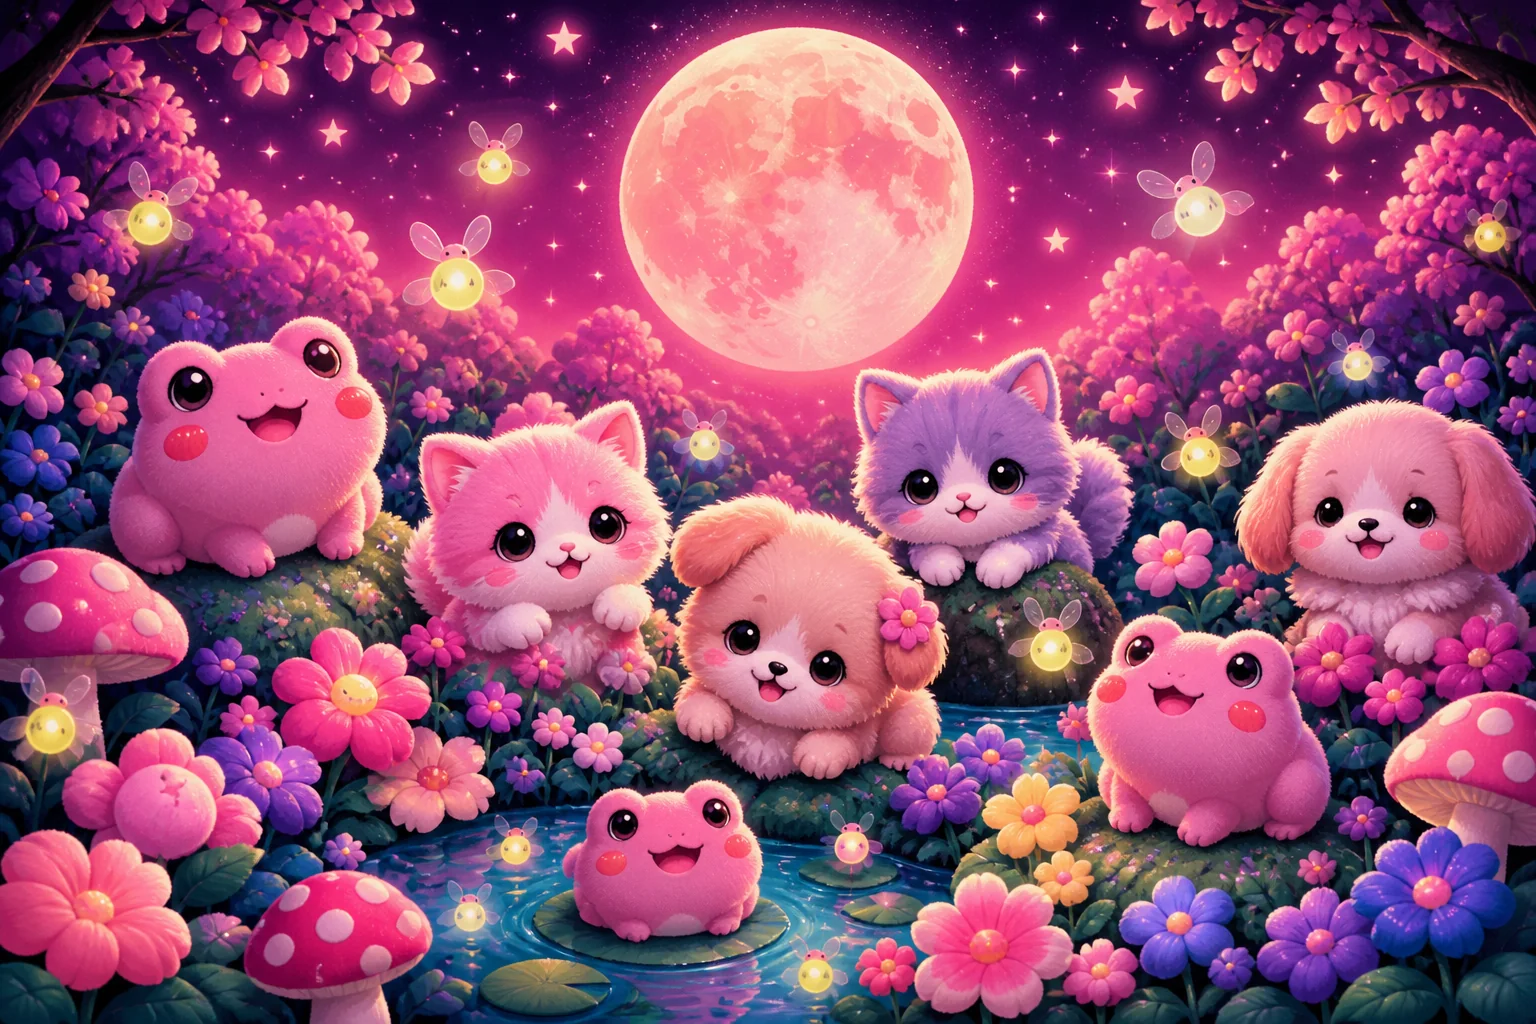
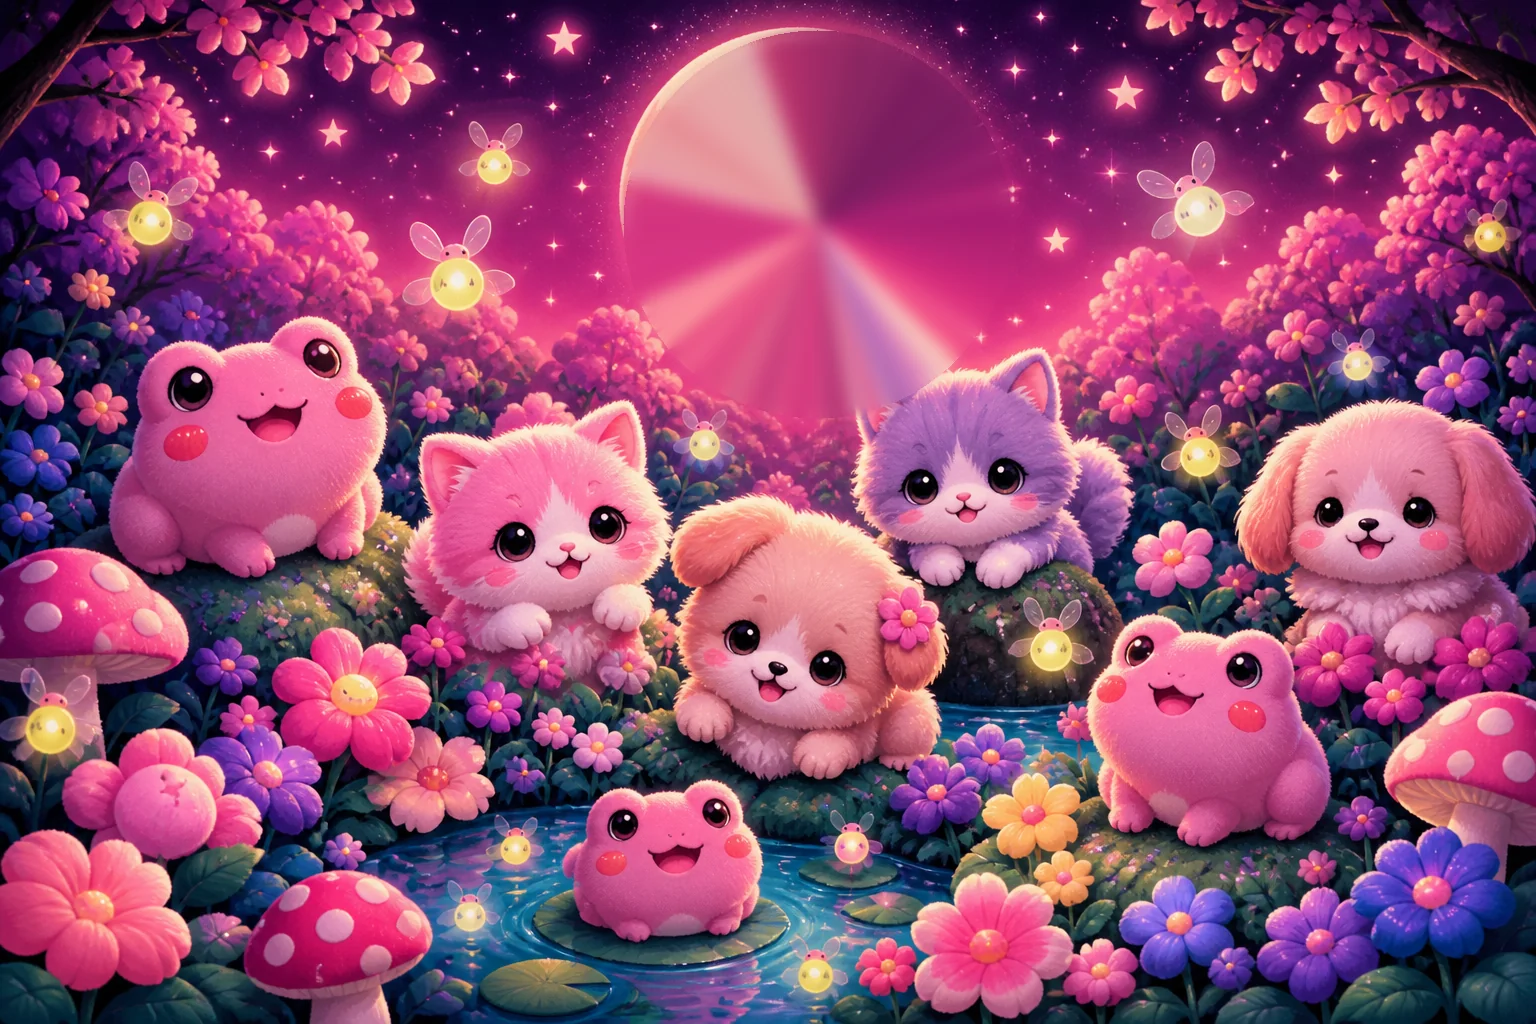
Split moon into its own asset so color tints the real moon, not a circle.

Changed region(s): [[0.4062, 0.0, 0.6562, 0.4062]]

diff --git a/index.html b/index.html
@@ -10,19 +10,22 @@
 <meta name="theme-color" content="#ff8fc5">
 <meta http-equiv="Cache-Control" content="no-cache, no-store, must-revalidate">
 <meta http-equiv="Pragma" content="no-cache">
-<link rel="apple-touch-icon" href="dumpling-icon.png?v=7">
-<link rel="manifest" href="manifest.webmanifest?v=7">
-<link rel="preload" as="image" href="garden.webp?v=7">
-<link rel="preload" as="image" href="dumpling-avatar.webp?v=7">
-<link rel="stylesheet" href="styles.css?v=7">
+<link rel="apple-touch-icon" href="dumpling-icon.png?v=8">
+<link rel="manifest" href="manifest.webmanifest?v=8">
+<link rel="preload" as="image" href="garden.webp?v=8">
+<link rel="preload" as="image" href="moon.webp?v=8">
+<link rel="preload" as="image" href="dumpling-avatar.webp?v=8">
+<link rel="stylesheet" href="styles.css?v=8">
 <title>Dumpling</title>
 </head>
 <body>
   <div id="app">
     <div id="stage">
       <div id="sky"></div>
-      <div id="garden"></div>
-      <div id="moon"></div>
+      <div id="garden">
+        <img class="scene" id="garden-art" src="garden.webp?v=8" alt="">
+        <img class="scene" id="moon-art" src="moon.webp?v=8" alt="">
+      </div>
       <div id="veil"></div>
       <div id="sneaky" aria-hidden="true"><div class="shaft"></div><div class="head"></div><div class="balls"><span></span><span></span></div></div>
       <header id="title"><h1>Dumpling</h1></header>
@@ -36,7 +39,7 @@
           <span class="dots" id="thought-dots" hidden><i></i><i></i><i></i></span>
         </div>
         <button type="button" id="buddy" aria-label="Dumpling">
-          <img src="dumpling-avatar.webp?v=7" alt="">
+          <img src="dumpling-avatar.webp?v=8" alt="">
         </button>
       </div>
     </div>
@@ -49,6 +52,6 @@
       </form>
     </section>
   </div>
-  <script src="app.js?v=7"></script>
+  <script src="app.js?v=8"></script>
 </body>
 </html>

diff --git a/styles.css b/styles.css
@@ -29,22 +29,22 @@ body {
   transition: background .45s ease, filter .45s ease;
 }
 body.night #sky { filter: brightness(.55) saturate(.85); }
-#moon {
-  position: absolute;
-  top: 14%;
-  left: 50%;
-  width: var(--moon-size);
-  height: var(--moon-size);
-  margin-left: calc(var(--moon-size) / -2);
-  border-radius: 50%;
-  background: radial-gradient(circle at 38% 32%, var(--moon1) 0%, var(--moon2) 48%, var(--moon3) 72%, transparent 78%);
-  mix-blend-mode: hue;
-  opacity: 0;
-  z-index: 2;
-  pointer-events: none;
-  transition: opacity .45s ease, background .45s ease;
+#garden {
+  position: absolute; inset: 0; overflow: hidden; z-index: 0;
 }
-#moon.tinted { opacity: .88; }
+#garden .scene {
+  position: absolute; inset: 0;
+  width: 100%; height: 100%;
+  object-fit: cover;
+  object-position: center bottom;
+  pointer-events: none;
+}
+#garden-art { z-index: 0; }
+#moon-art {
+  z-index: 1;
+  transform-origin: 53% 22%;
+  transition: filter .45s ease;
+}
 .star {
   position: absolute; width: 5px; height: 5px; background: #fff;
   border-radius: 50%; animation: twinkle 2.2s ease-in-out infinite; z-index: 1;
@@ -61,11 +61,6 @@ body.night #sky { filter: brightness(.55) saturate(.85); }
   box-shadow: 0 0 16px #ffe45c, 0 0 2px #fff;
 }
 .firefly.pop { animation: pop .28s ease forwards; }
-#garden {
-  position: absolute; inset: 0;
-  background: url("garden.webp?v=7") center bottom / cover no-repeat;
-  z-index: 0;
-}
 #veil {
   position: absolute; inset: 0; z-index: 1; pointer-events: none;
   background: linear-gradient(180deg, var(--wash) 0%, transparent 28%, #1a0a2244 100%);

diff --git a/app.js b/app.js
@@ -1,6 +1,6 @@
 (function () {
   "use strict";
-  const BUILD = 7;
+  const BUILD = 8;
   const PLAY_KEY = "dumpling-play-v1";
   const COLORS = {
     green: ["#d9ffd6", "#7dff8a", "#1fbf4a"],
@@ -20,7 +20,7 @@
     log: document.getElementById("log"),
     box: document.getElementById("box"),
     form: document.getElementById("form"),
-    moon: document.getElementById("moon"),
+    moon: document.getElementById("moon-art"),
     buddy: document.getElementById("buddy"),
     thought: document.getElementById("thought"),
     thoughtText: document.getElementById("thought-text"),
@@ -78,11 +78,18 @@
   }
   function applyPlay() {
     const r = document.documentElement.style;
-    const moon = COLORS[play.moon] || COLORS.pink;
-    r.setProperty("--moon1", moon[0]);
-    r.setProperty("--moon2", moon[1]);
-    r.setProperty("--moon3", moon[2]);
-    if (els.moon) els.moon.classList.toggle("tinted", play.moon !== "pink");
+    const MOON_FILTER = {
+      pink: "none",
+      green: "hue-rotate(100deg) saturate(1.4)",
+      blue: "hue-rotate(185deg) saturate(1.25)",
+      purple: "hue-rotate(-25deg) saturate(1.3)",
+      yellow: "hue-rotate(38deg) saturate(1.35) brightness(1.05)",
+      orange: "hue-rotate(18deg) saturate(1.4)",
+      white: "saturate(0) brightness(1.28)",
+      red: "hue-rotate(-12deg) saturate(1.55)",
+      teal: "hue-rotate(145deg) saturate(1.3)"
+    };
+    if (els.moon) els.moon.style.filter = MOON_FILTER[play.moon] || "none";
     if (play.sky && COLORS[play.sky]) {
       const sky = COLORS[play.sky];
       r.setProperty("--sky1", sky[0]);

diff --git a/sw.js b/sw.js
@@ -1,4 +1,4 @@
-const VER = "dumpling-v7";
+const VER = "dumpling-v8";
 self.addEventListener("install", e => { self.skipWaiting(); });
 self.addEventListener("activate", e => {
   e.waitUntil(
